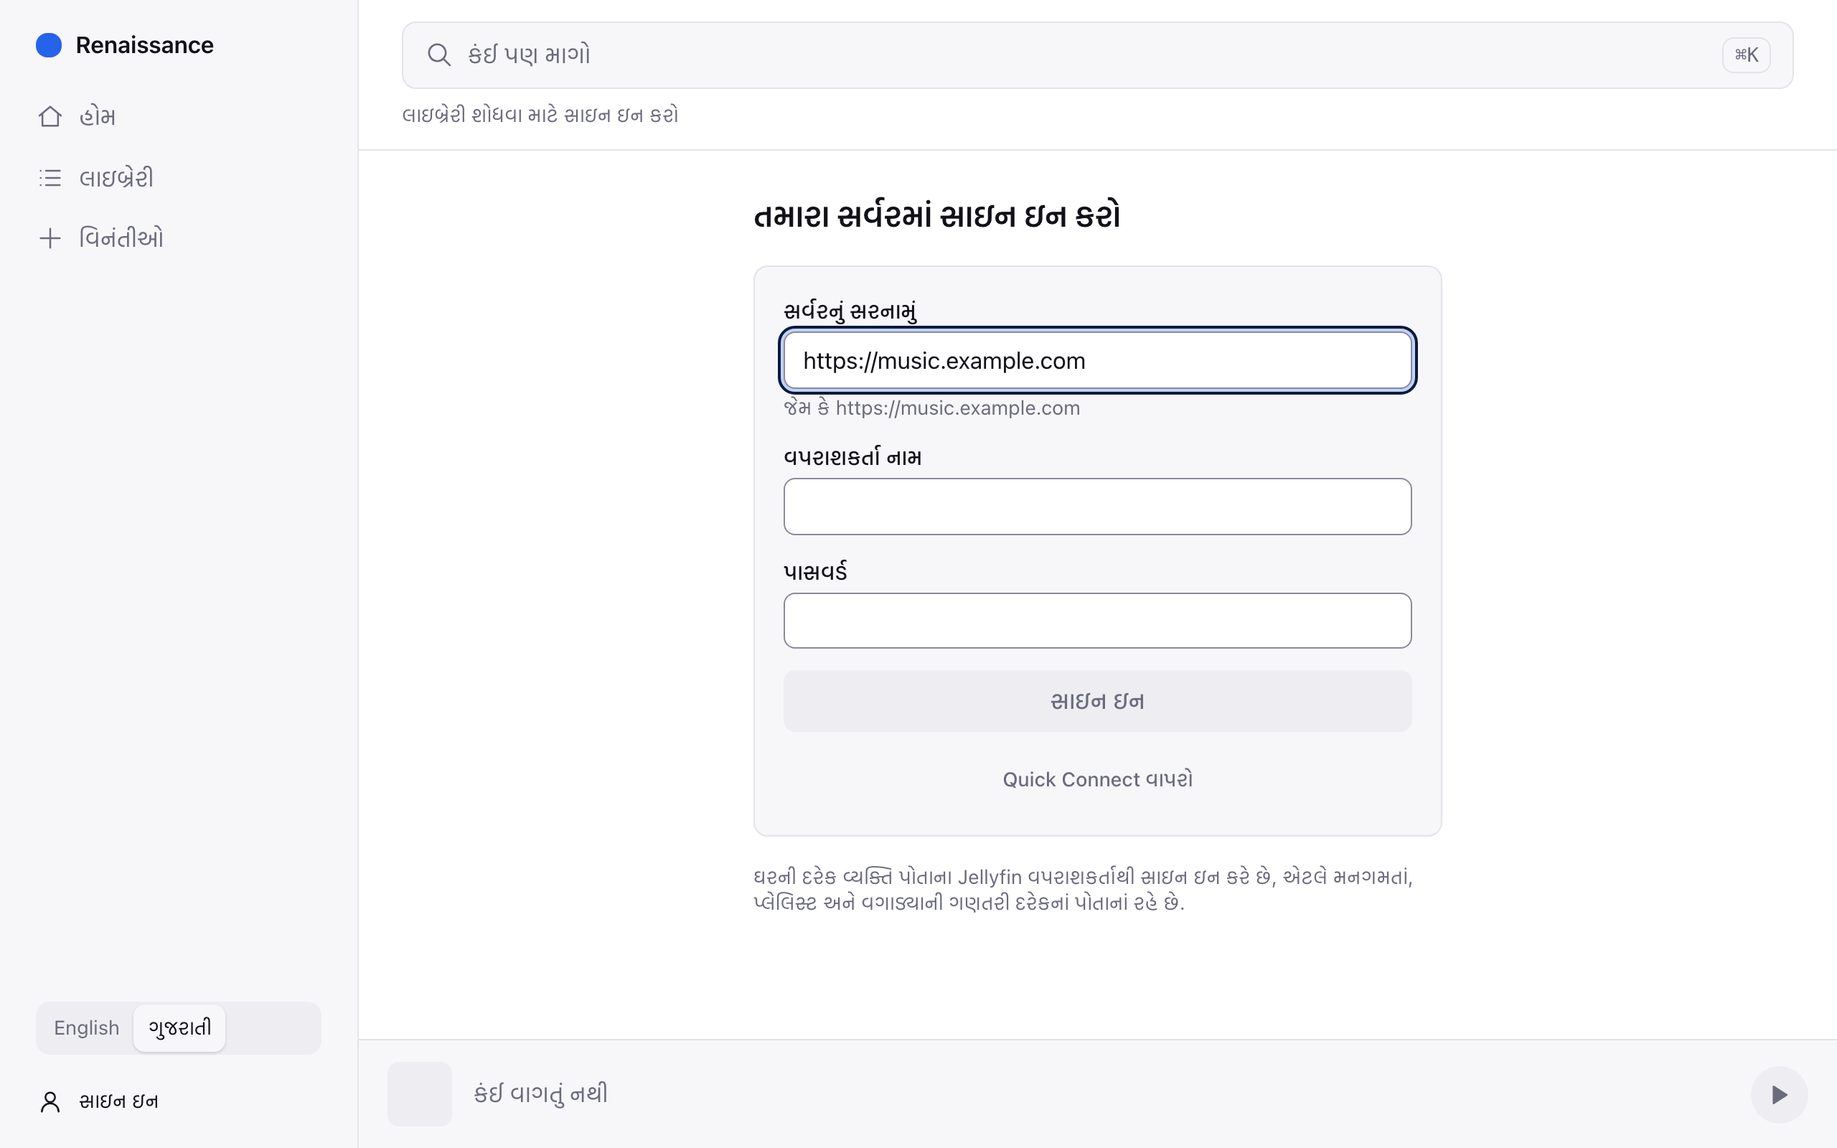
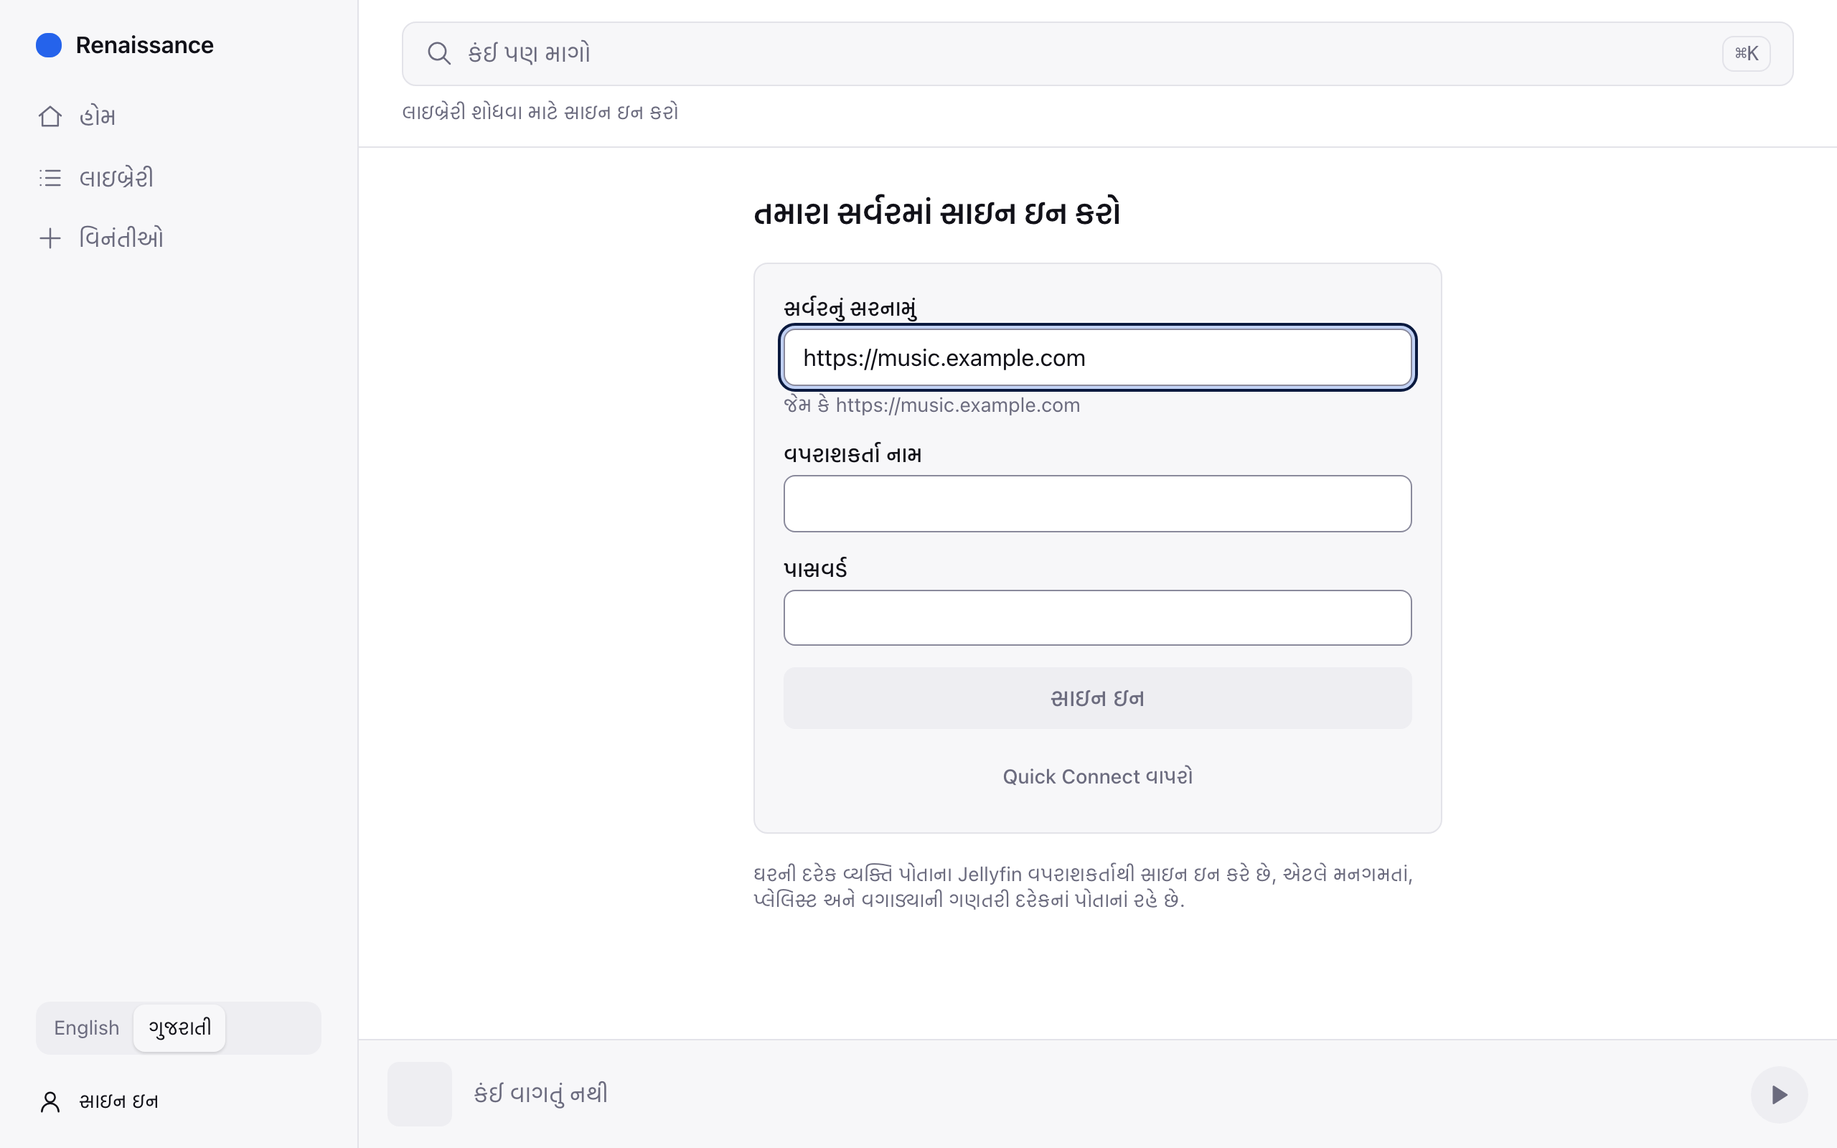
docs: adr 0013 for the socket push, adr 0012 restored, testing notes, screenshots, changeset
Production Y: ADR 0012's consequence is back as accepted and ADR 0013 supersedes it. The
phase 1 screenshots retaken on this build: the queue shots show the row glyph, the desktop and
tablet shots carry the Ask bar box from round 3 that was never retaken.

diff --git a/docs/testing.md b/docs/testing.md
@@ -2,12 +2,12 @@
 
 Three layers, all run by `pnpm test` and CI except the last, which needs a real server.
 
-| Layer                     | Where                                                                                                                                                                                                                                                                                                                                                                                                                                                                                                                                                                                                                                                                                                                                                                                                                                                                                                                                                                       | Runs                                                                |
-| ------------------------- | --------------------------------------------------------------------------------------------------------------------------------------------------------------------------------------------------------------------------------------------------------------------------------------------------------------------------------------------------------------------------------------------------------------------------------------------------------------------------------------------------------------------------------------------------------------------------------------------------------------------------------------------------------------------------------------------------------------------------------------------------------------------------------------------------------------------------------------------------------------------------------------------------------------------------------------------------------------------------- | ------------------------------------------------------------------- |
-| Unit, core                | `packages/core/test` (Vitest, coverage floor 80 % on lines, branches, functions, statements)                                                                                                                                                                                                                                                                                                                                                                                                                                                                                                                                                                                                                                                                                                                                                                                                                                                                                | `pnpm test`, CI                                                     |
-| Unit, web                 | `apps/web/src/**/*.test.tsx` (Vitest, jsdom, Testing Library; a fake adapter and a fake audio port in `src/test/fakes.ts`; `fake-indexeddb` for the vault and the cache)                                                                                                                                                                                                                                                                                                                                                                                                                                                                                                                                                                                                                                                                                                                                                                                                    | `pnpm test`, CI                                                     |
-| Browser, static           | `apps/web/e2e/accessibility.spec.ts` (Playwright on Chromium against the built app: focus outline colour and width, 24 and 30 px targets including the Ask bar's input and a tap on its box edge, not-found shell, favicon, the chart ink on every swatch read from rendered pixels in both themes) and `signin.spec.ts` (the 8 s request timeout against a host that never answers, https first for a scheme-less address with the http notice before anything is sent, the Content-Security-Policy meta)                                                                                                                                                                                                                                                                                                                                                                                                                                                                  | `pnpm --filter web e2e`, CI                                         |
-| Browser, against Jellyfin | `apps/web/e2e/demo.spec.ts` (sign in; the artist page by every id the server holds for the name, from the grid, from the album and with the server down; row geometry; play with the server's play count rising; three reloads that are not plays; favourite, with the heart pressed at once on the list and on the album page; playlist create, rename, add, keyboard reorder read back from the server, undo, a second user who cannot see it, delete; the bar at 820 px, its five transport buttons on one row at one bar height from 768 to 900 px in simple mode, and from 1024 to 1366 px in simple mode with the scrubber at least 160 px; now playing above the fold at 1280×800 and 390×844; no sideways scroll at a 25 px root; placeholder and genre labels in the chart ink from pixels in both themes; the Ask bar from the cache; sign out removing the library database; a browser that blocks IndexedDB still signing in and loading the library in memory) | `pnpm --filter web e2e` with the variables below; **skipped in CI** |
+| Layer                     | Where                                                                                                                                                                                                                                                                                                                                                                                                                                                                                                                                                                                                                                                                                                                                                                                                                                                                                                                                                                                                                                                                                                                                                                                           | Runs                                                                |
+| ------------------------- | ----------------------------------------------------------------------------------------------------------------------------------------------------------------------------------------------------------------------------------------------------------------------------------------------------------------------------------------------------------------------------------------------------------------------------------------------------------------------------------------------------------------------------------------------------------------------------------------------------------------------------------------------------------------------------------------------------------------------------------------------------------------------------------------------------------------------------------------------------------------------------------------------------------------------------------------------------------------------------------------------------------------------------------------------------------------------------------------------------------------------------------------------------------------------------------------------- | ------------------------------------------------------------------- |
+| Unit, core                | `packages/core/test` (Vitest, coverage floor 80 % on lines, branches, functions, statements)                                                                                                                                                                                                                                                                                                                                                                                                                                                                                                                                                                                                                                                                                                                                                                                                                                                                                                                                                                                                                                                                                                    | `pnpm test`, CI                                                     |
+| Unit, web                 | `apps/web/src/**/*.test.tsx` (Vitest, jsdom, Testing Library; a fake adapter and a fake audio port in `src/test/fakes.ts`; `fake-indexeddb` for the vault and the cache)                                                                                                                                                                                                                                                                                                                                                                                                                                                                                                                                                                                                                                                                                                                                                                                                                                                                                                                                                                                                                        | `pnpm test`, CI                                                     |
+| Browser, static           | `apps/web/e2e/accessibility.spec.ts` (Playwright on Chromium against the built app: focus outline colour and width, 24 and 30 px targets including the Ask bar's input and a tap on its box edge, not-found shell, favicon, the chart ink on every swatch read from rendered pixels in both themes) and `signin.spec.ts` (the 8 s request timeout against a host that never answers, https first for a scheme-less address with the http notice before anything is sent, the Content-Security-Policy meta)                                                                                                                                                                                                                                                                                                                                                                                                                                                                                                                                                                                                                                                                                      | `pnpm --filter web e2e`, CI                                         |
+| Browser, against Jellyfin | `apps/web/e2e/demo.spec.ts` (sign in; the artist page by every id the server holds for the name, from the grid, from the album and with the server down; row geometry; play with the server's play count rising; three reloads that are not plays; favourite, with the heart pressed at once on the list and on the album page; playlist create, rename, add, keyboard reorder read back from the server, undo, a second user who cannot see it, delete; the bar at 820 px, its five transport buttons on one row at one bar height from 768 to 900 px in simple mode, and from 1024 to 1366 px in simple mode with the scrubber at least 160 px; now playing above the fold at 1280×800 and 390×844; no sideways scroll at a 25 px root; placeholder and genre labels in the chart ink from pixels in both themes; the Ask bar from the cache; on a phone the last song's menu opening above its button with all six items inside the main area and the first song's below, the current row's glyph pause while playing and play while paused as the bar's button; sign out removing the library database; a browser that blocks IndexedDB still signing in and loading the library in memory) | `pnpm --filter web e2e` with the variables below; **skipped in CI** |
 
 ## The demo server
 

diff --git a/.changeset/phase-1-core-web.md b/.changeset/phase-1-core-web.md
@@ -12,3 +12,5 @@ After the first round of review: an artist page shows every song and album whate
 After the second round: the player bar keeps a usable scrubber at every width from 1024 px in simple mode (times and volume from 1280 px there); placeholder and genre labels render in the one ink that reads on every swatch in the dark theme too; the bar's placeholder colour matches the row's; the sidebar language switch and the Library sync line follow simple mode as the phone does; a browser that blocks IndexedDB (a private window with site data blocked) still signs in and loads the library, kept in memory for the session; counts print with thousands grouping ("20,000 songs", Indian grouping in Gujarati); a scheme-less address that answers on neither scheme says so after two tries instead of three; a sign-out in one tab signs the other tabs of that user out too; a late 401 from a previous user's requests no longer signs the next user out; the reorder planner forgets a learned model that stopped fitting; a favourite reaches the other tabs once the server has it.
 
 After the third round: a heart tapped on an album page fills at once; a heart tapped while the library is refreshing stays after the refresh lands; a favourite or a play made on another device reaches this one the moment the server announces it, for any song in the library, not only the 200 most recently saved; the player bar keeps its five transport buttons on one row on tablets in simple mode; the whole Ask bar box takes a tap; switching to Gujarati changes the page language and the words together, and a switch whose strings cannot be fetched leaves everything as it was and says so; a screen that cannot load offline says you are offline and loads itself when the connection returns; a reload no longer flashes "no favourites" or "this playlist is gone" while the cache loads from disk; an artist or album named exactly what you typed leads the instant results; Settings names the full rebuild "Rebuild library" apart from the quick refresh; a song whose name is only spaces shows "(untitled)".
+
+After the fourth round: the current row shows the pause glyph while the song plays and the play glyph while it is paused, as the bar does; a song's menu opens above its button when the list has no room below it, so every item is reachable on the last rows of a phone; the song, album and artist counts on the Library and Settings pages wait for the library to load instead of saying 0 for a moment, and Home shows no empty sentence while the session is still being read; a favourite or a play pushed from another device is kept even when one entry of the push is malformed, the unknown items are fetched in one request and only music is kept; a playlist deleted during a refresh stays deleted after a restart; the album page keeps the later of the two last-played dates when one side has none.

diff --git a/docs/adr/0013-user-data-from-other-devices-arrives-through-the-socket-push.md b/docs/adr/0013-user-data-from-other-devices-arrives-through-the-socket-push.md
@@ -1,0 +1,35 @@
+# ADR 0013: User data from other devices arrives through the socket push
+
+Date: 2026-11-20. Status: accepted. Supersedes the last consequence of ADR 0012, which it does not
+change; adds to ADR 0008.
+
+## Context
+
+ADR 0012's last consequence says that a favourite or a play made on another device reaches this one
+through the 200-item `DateLastSaved` page, the socket's `UserDataChanged` refresh (a delta) or the next
+full sync, and that an item outside that page waits for one of those. Measured on 10.10.7 during the
+phase 1 reviews, the delta cannot see those changes at all: `MinDateLastSavedForUser` filters on the
+item's own `DateLastSaved`, which a favourite or a play does not bump, so a heart given on the TV to a
+song deep in a 20,000-track library waited for a full sync. The push itself, though, names the items.
+
+## Decision
+
+1. The server's `UserDataChanged` push is the path for another device's favourites and plays. Its
+   `Data.UserDataList` carries `{ItemId, IsFavorite, PlayCount, LastPlayedDate}` per item; the app
+   patches those rows in the cache the moment the push arrives, writes them to disk, and fetches by
+   id the items the cache does not hold yet (one `/Items?Ids=` request without a type, sorted by the
+   `Type` the server returns; songs and albums are kept, anything else a device touched is dropped;
+   at most one page of unknown ids per push, the rest reach the cache through the next sync).
+2. Each entry of the list is parsed on its own. One entry that misses the shape is dropped; the others
+   in the same push still apply.
+3. The push still schedules a delta for everything else it may signal (a new item, a renamed playlist).
+4. Without the socket (a proxy that drops websockets), user data from other devices waits for the
+   200-item `DateLastSaved` page or the next full sync, as ADR 0012 says.
+
+## Consequences
+
+- A heart or a play on any device shows on every other signed-in device within the push's latency,
+  for any item in the library, not only the 200 most recently saved.
+- A video library shared with the music app costs one request per push that names unknown ids, never
+  one per id, and nothing that is not music enters the cache.
+- ADR 0012's last consequence is superseded by this one; the rest of ADR 0012 stands.

diff --git a/docs/adr/0012-delta-refresh-from-a-server-stamped-watermark.md b/docs/adr/0012-delta-refresh-from-a-server-stamped-watermark.md
@@ -32,13 +32,7 @@ clock. The documented deployments are all cross-origin, so the server clock neve
 - One full re-sync on the first start after this change, then deltas as before.
 - `Library.serverTime()` is gone from the adapter interface; nothing reads response headers.
 - Measured on 10.10.7 while doing this: `MinDateLastSavedForUser` filters on the item's own
-  `DateLastSaved`, which a favourite or a play does not bump, so the delta cannot see another device's
-  heart or play. ADR 0008's "favourite and play-count changes through `MinDateLastSavedForUser`"
-  over-states what the filter does. Those changes reach the cache another way: the server's
-  `UserDataChanged` push names the items (`UserDataList[{ItemId, IsFavorite, PlayCount, LastPlayedDate}]`),
-  and the app patches those rows in the cache the moment the push arrives, fetching by id the ones the
-  cache does not hold yet. The push still schedules a delta for everything else it may signal. Without
-  the socket (a proxy that drops websockets), user data from other devices waits for the 200-item
-  `DateLastSaved` page or the next full sync, as before. (Corrected 2026-11-20 after the round 3
-  review: the first text had the push only scheduling a delta, which left an item outside the 200
-  page waiting for a full sync.)
+  `DateLastSaved`, which a favourite or a play does not bump. Those changes reach the cache through the
+  200-item `DateLastSaved` page, the socket's `UserDataChanged` refresh and the next full sync; a
+  favourite toggled on another device for an item outside that page waits for one of those. ADR 0008's
+  "favourite and play-count changes through `MinDateLastSavedForUser`" over-states what the filter does.
